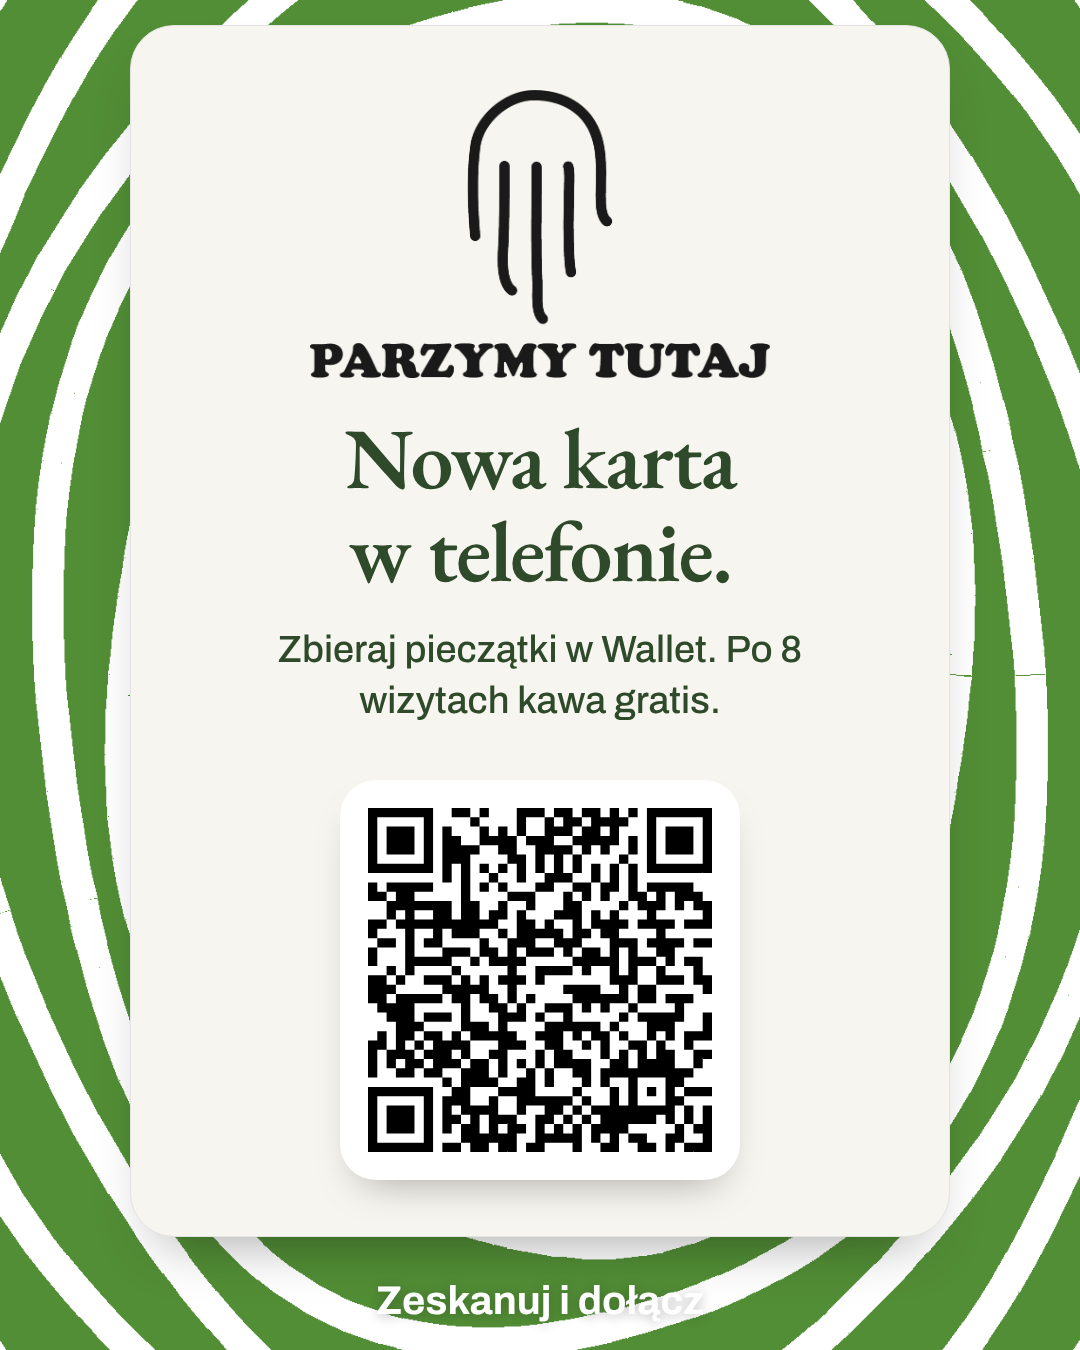
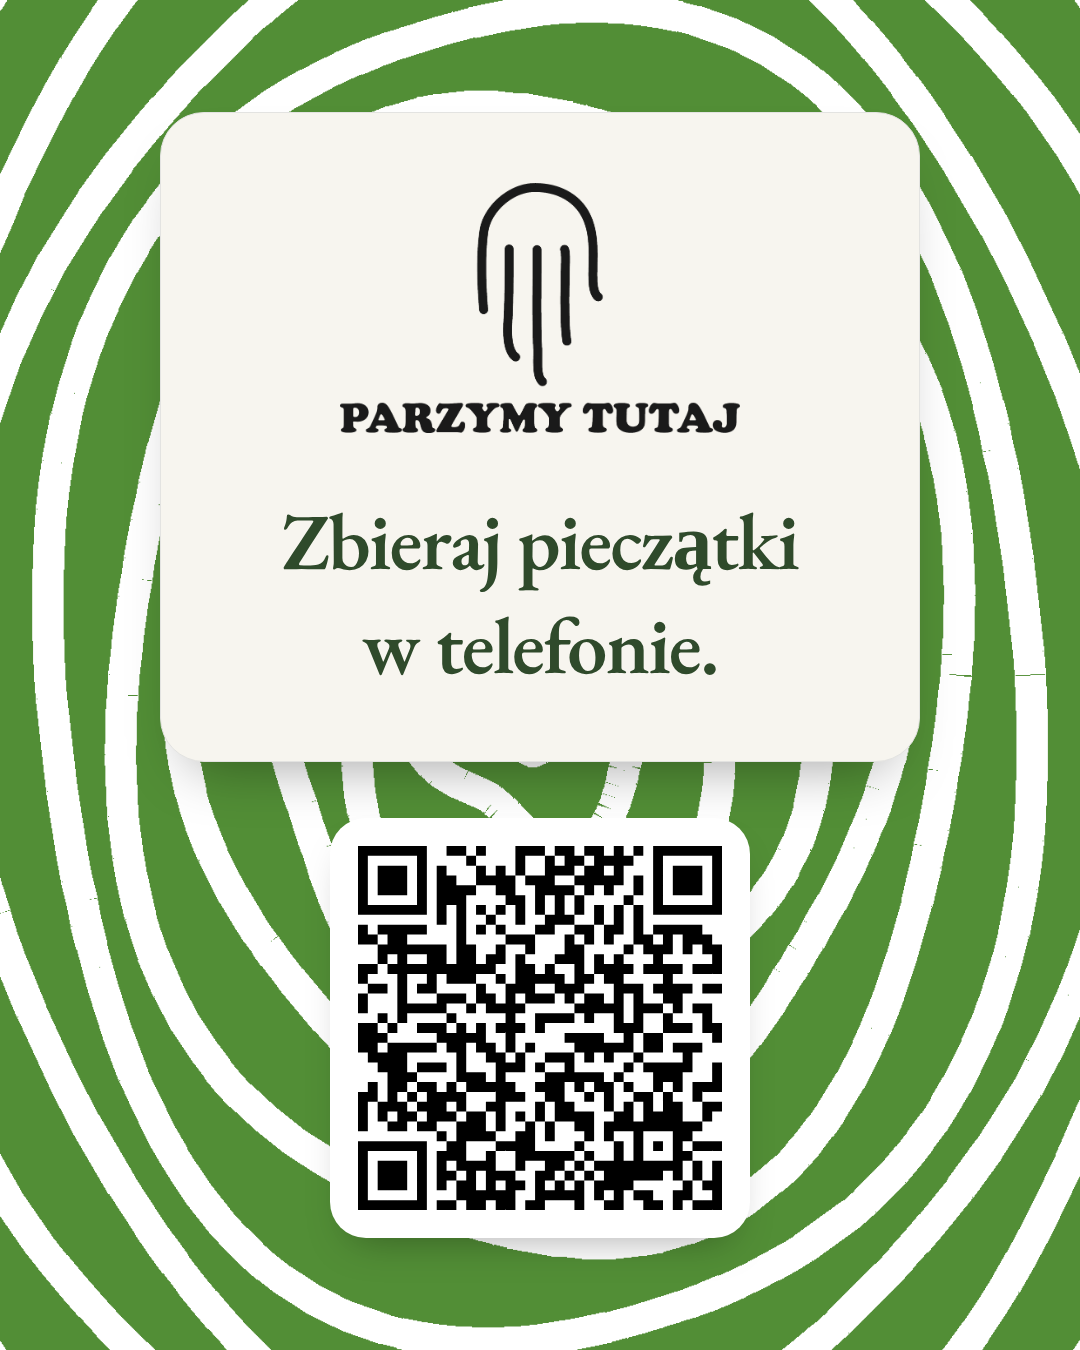
Parzymy Instagram post: same layout as the chosen poster
Claude-Session: https://claude.ai/code/session_01P7jvwC9jL6ipCqqXJiCoo9

Changed region(s): [[0.1222, 0.3111, 0.8861, 0.9333], [0.1222, 0.0, 0.8861, 0.5289], [0.3361, 0.9333, 0.6111, 0.9956]]

diff --git a/marketing/instagram/parzymy/post.html b/marketing/instagram/parzymy/post.html
@@ -9,11 +9,11 @@
 :root{--dark:#2F4A2B;--green:#528E36;--brick:#BB4F35;--cream:#F7F5EF}
 html,body{margin:0;background:var(--green)}
 .post{width:1080px;height:1350px;box-sizing:border-box;position:relative;overflow:hidden;background:var(--green) url(../../../print/kit-parzymy/tlo-wir-A4.png) center/cover;display:flex;flex-direction:column;align-items:center;justify-content:center;text-align:center;color:var(--dark)}
-.panel{background:var(--cream);border-radius:44px;padding:64px 80px 56px;width:820px;box-sizing:border-box;box-shadow:0 30px 60px -30px rgba(0,0,0,.4)}
-.logo{width:460px;display:block;margin:0 auto 34px}
-h1{font-family:"EB Garamond",Georgia,serif;font-weight:600;font-size:86px;line-height:1.08;margin:0 0 26px}
+.panel{background:var(--cream);border-radius:44px;padding:70px 80px 64px;width:760px;box-sizing:border-box;box-shadow:0 30px 60px -30px rgba(0,0,0,.4)}
+.logo{width:400px;display:block;margin:0 auto 56px}
+h1{font-family:"EB Garamond",Georgia,serif;font-weight:600;font-size:80px;line-height:1.3;margin:0}
 .lede{font:500 38px/1.35 var(--font);margin:0}
-.qr{margin:54px auto 0;width:400px;height:400px;background:#fff;border-radius:36px;padding:28px;box-sizing:border-box;box-shadow:0 20px 40px -20px rgba(0,0,0,.35)}
+.qr{margin:56px auto 0;width:420px;height:420px;background:#fff;border-radius:36px;padding:28px;box-sizing:border-box;box-shadow:0 20px 40px -20px rgba(0,0,0,.35)}
 .qr svg{width:100%;height:100%;display:block}
 .cta{margin:40px 0 0;font:700 40px/1.2 var(--font);color:#fff;text-shadow:0 2px 12px rgba(0,0,0,.25)}
 </style>
@@ -33,11 +33,9 @@ window.WAIT_READY = true;
   document.getElementById('post').innerHTML = `
     <div class="panel">
       <img class="logo" src="../../../print/kit-parzymy/logo-parzymy-black.png" alt="Parzymy Tutaj">
-      <h1>Nowa karta<br>w telefonie.</h1>
-      <p class="lede">Zbieraj pieczątki w Wallet. Po 8 wizytach kawa gratis.</p>
-      <div class="qr">${UI.qrSvg(url)}</div>
+      <h1>Zbieraj pieczątki<br>w telefonie.</h1>
     </div>
-    <p class="cta">Zeskanuj i dołącz</p>`;
+    <div class="qr">${UI.qrSvg(url)}</div>`;
   await Promise.all([...document.images].map(i => i.complete ? 0 : new Promise(ok => { i.onload = i.onerror = ok; })));
   await document.fonts.ready;
   window.READY = true;
